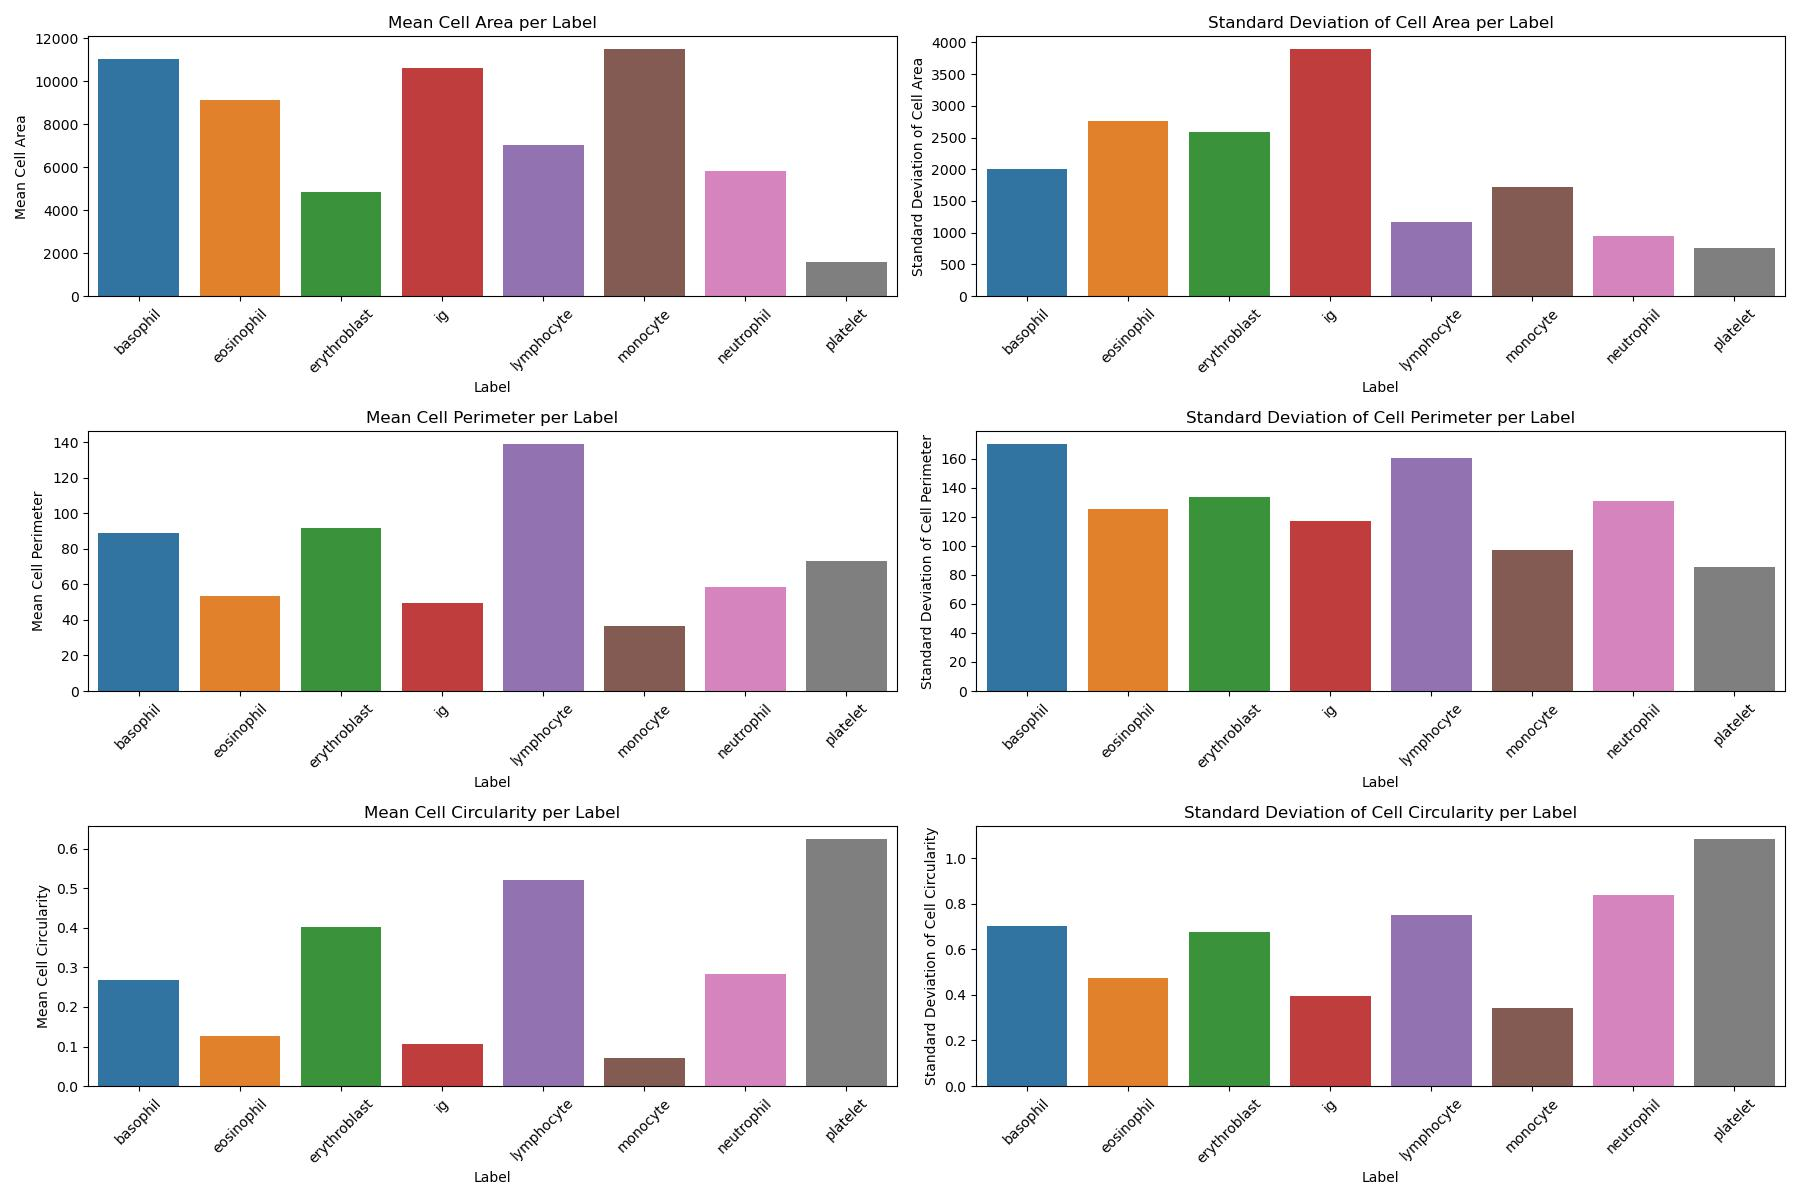
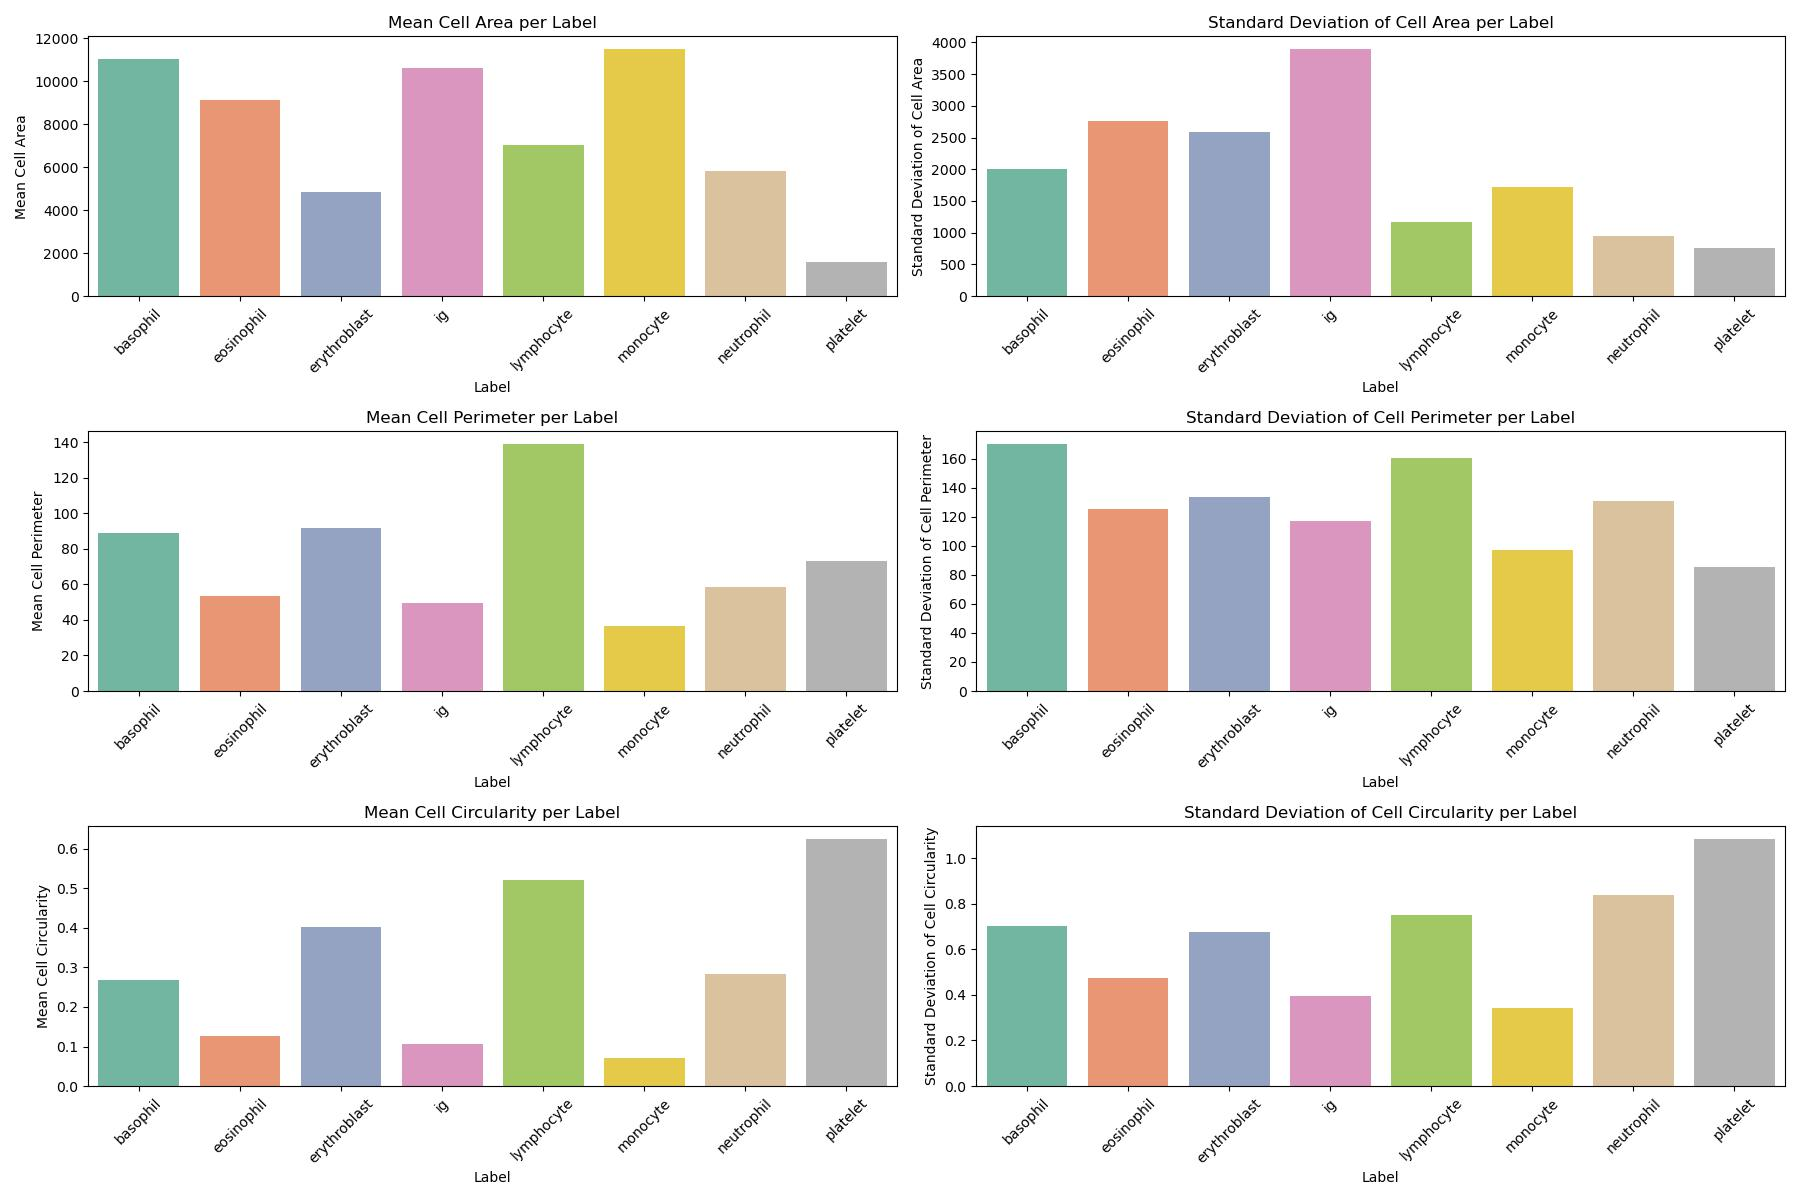
I added set to to sns plot for fig.7

diff --git a/src/visualization/visualize.py b/src/visualization/visualize.py
@@ -151,8 +151,7 @@ def visualize_images(first_images, main_folder_path):
     save_path = '/Users/mehdienrahimi/apr24_bds_int_blood_cells/src/outputs/samples_segmentationOpenCV.jpg'
     plt.savefig(save_path)
     # plt.close(fig)  # Close the figure to free up memory
-import matplotlib.pyplot as plt
-import seaborn as sns
+
 
 def dist_cell_area(df_segmentation):
     '''Input: df_segmentation from data_analysis.segmentation_openCV()
@@ -164,7 +163,7 @@ def dist_cell_area(df_segmentation):
     # First subplot: Mean Cell Area per Label
     plt.subplot(3, 2, 1)  # (row, column, index)
     mean_area = df_segmentation.groupby('Label')['CellArea'].mean().reset_index()
-    sns.barplot(x='Label', y='CellArea', data=mean_area)
+    sns.barplot(x='Label', y='CellArea', data=mean_area, palette='Set2')
     plt.title('Mean Cell Area per Label')
     plt.xlabel('Label')
     plt.ylabel('Mean Cell Area')
@@ -173,7 +172,7 @@ def dist_cell_area(df_segmentation):
     # Second subplot: Standard Deviation of Cell Area per Label
     plt.subplot(3, 2, 2)
     std_area = df_segmentation.groupby('Label')['CellArea'].std().reset_index()
-    sns.barplot(x='Label', y='CellArea', data=std_area)
+    sns.barplot(x='Label', y='CellArea', data=std_area, palette='Set2')
     plt.title('Standard Deviation of Cell Area per Label')
     plt.xlabel('Label')
     plt.ylabel('Standard Deviation of Cell Area')
@@ -182,7 +181,7 @@ def dist_cell_area(df_segmentation):
     # Third subplot: Mean Cell Perimeter per Label
     plt.subplot(3, 2, 3)
     mean_perimeter = df_segmentation.groupby('Label')['Cell_perimeter'].mean().reset_index()
-    sns.barplot(x='Label', y='Cell_perimeter', data=mean_perimeter)
+    sns.barplot(x='Label', y='Cell_perimeter', data=mean_perimeter, palette='Set2')
     plt.title('Mean Cell Perimeter per Label')
     plt.xlabel('Label')
     plt.ylabel('Mean Cell Perimeter')
@@ -191,7 +190,7 @@ def dist_cell_area(df_segmentation):
     # Fourth subplot: Standard Deviation of Cell Perimeter per Label
     plt.subplot(3, 2, 4)
     std_perimeter = df_segmentation.groupby('Label')['Cell_perimeter'].std().reset_index()
-    sns.barplot(x='Label', y='Cell_perimeter', data=std_perimeter)
+    sns.barplot(x='Label', y='Cell_perimeter', data=std_perimeter, palette='Set2')
     plt.title('Standard Deviation of Cell Perimeter per Label')
     plt.xlabel('Label')
     plt.ylabel('Standard Deviation of Cell Perimeter')
@@ -200,7 +199,7 @@ def dist_cell_area(df_segmentation):
     # Fifth subplot: Mean Cell Circularity per Label
     plt.subplot(3, 2, 5)
     mean_circularity = df_segmentation.groupby('Label')['cell_circularity'].mean().reset_index()
-    sns.barplot(x='Label', y='cell_circularity', data=mean_circularity)
+    sns.barplot(x='Label', y='cell_circularity', data=mean_circularity, palette='Set2')
     plt.title('Mean Cell Circularity per Label')
     plt.xlabel('Label')
     plt.ylabel('Mean Cell Circularity')
@@ -209,7 +208,7 @@ def dist_cell_area(df_segmentation):
     # Sixth subplot: Standard Deviation of Cell Circularity per Label
     plt.subplot(3, 2, 6)
     std_circularity = df_segmentation.groupby('Label')['cell_circularity'].std().reset_index()
-    sns.barplot(x='Label', y='cell_circularity', data=std_circularity)
+    sns.barplot(x='Label', y='cell_circularity', data=std_circularity, palette='Set2')
     plt.title('Standard Deviation of Cell Circularity per Label')
     plt.xlabel('Label')
     plt.ylabel('Standard Deviation of Cell Circularity')
